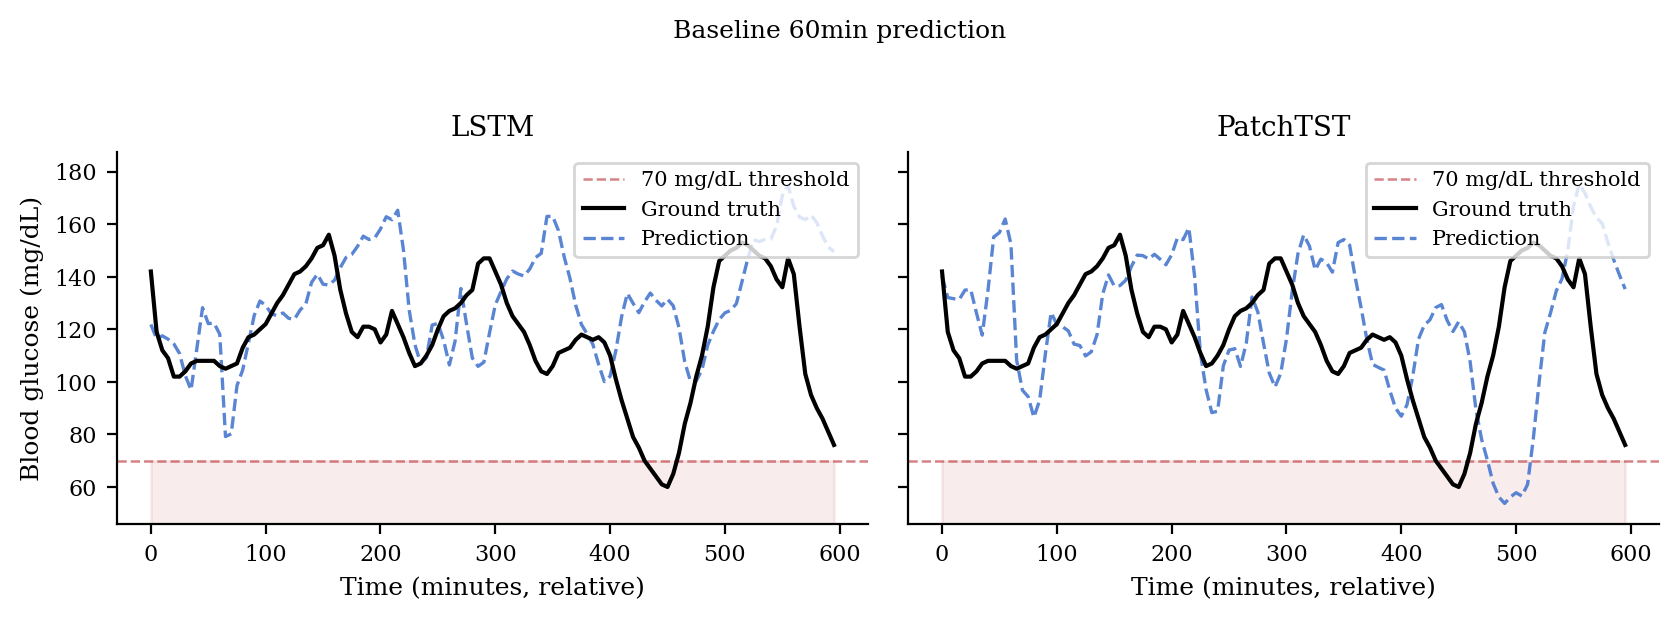
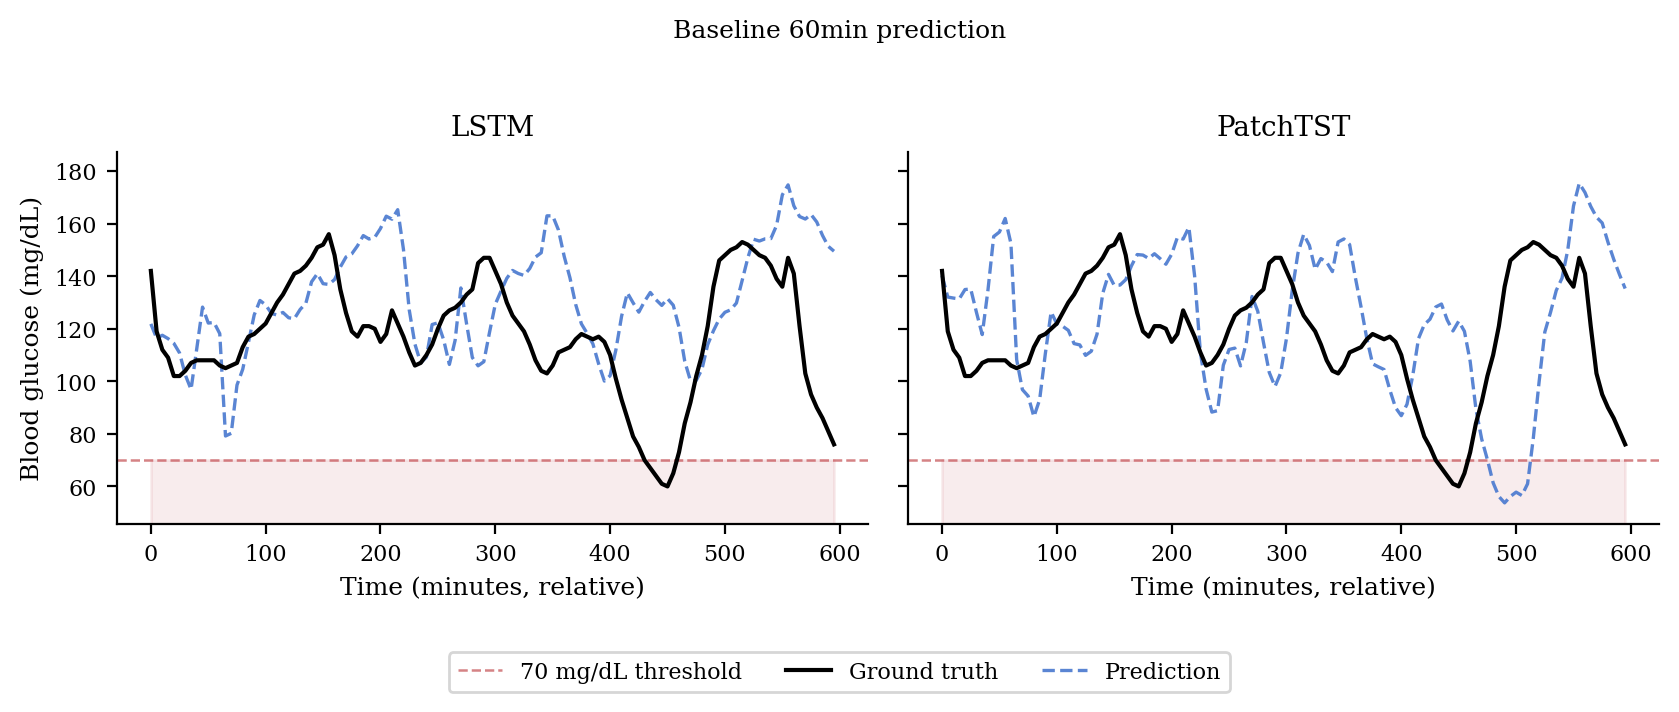
single legend below figure 4.1, reduce boxplot size in figure 4.2

diff --git a/scripts/generate_chapter4_figures.py b/scripts/generate_chapter4_figures.py
@@ -320,8 +320,10 @@ def make_baseline_trajectory_comparison():
         ax.set_ylim(y_lo, max(true_w.max(), pred.max()) + 12)
 
     axes[0].set_ylabel("Blood glucose (mg/dL)")
-    axes[0].legend(loc="upper right", fontsize=7.5)
-    axes[1].legend(loc="upper right", fontsize=7.5)
+
+    handles, labels = axes[0].get_legend_handles_labels()
+    fig.legend(handles, labels, loc="lower center", ncol=3, fontsize=8,
+               bbox_to_anchor=(0.5, -0.12), frameon=True)
 
     fig.suptitle("Baseline 60min prediction", y=1.02, fontsize=9)
     fig.tight_layout()

diff --git a/thesis/experiments.tex b/thesis/experiments.tex
@@ -34,7 +34,7 @@ PatchTST\,MSE  & 39.27 & 55.3 & 29.00 & 0.048 & 0.089 & 0.061 & 0.074 \\
 
 \begin{figure}[H]
     \centering
-    \includegraphics[width=\textwidth]{lag_distribution.png}
+    \includegraphics[width=0.55\textwidth]{lag_distribution.png}
     \caption{Boxplot of the per-patient prediction delay $\Delta^*$ for the LSTM and PatchTST baseline models. Each point represents one of the 36 patients. $\Delta^*$ is the shift in minutes that minimises the per-patient RMSE between the shifted prediction and the ground truth. Both models show a median delay near the full 60-minute forecast horizon, confirming that the temporal misalignment is a systematic, cohort-wide phenomenon.}
     \label{fig:exp:lag_dist}
 \end{figure}